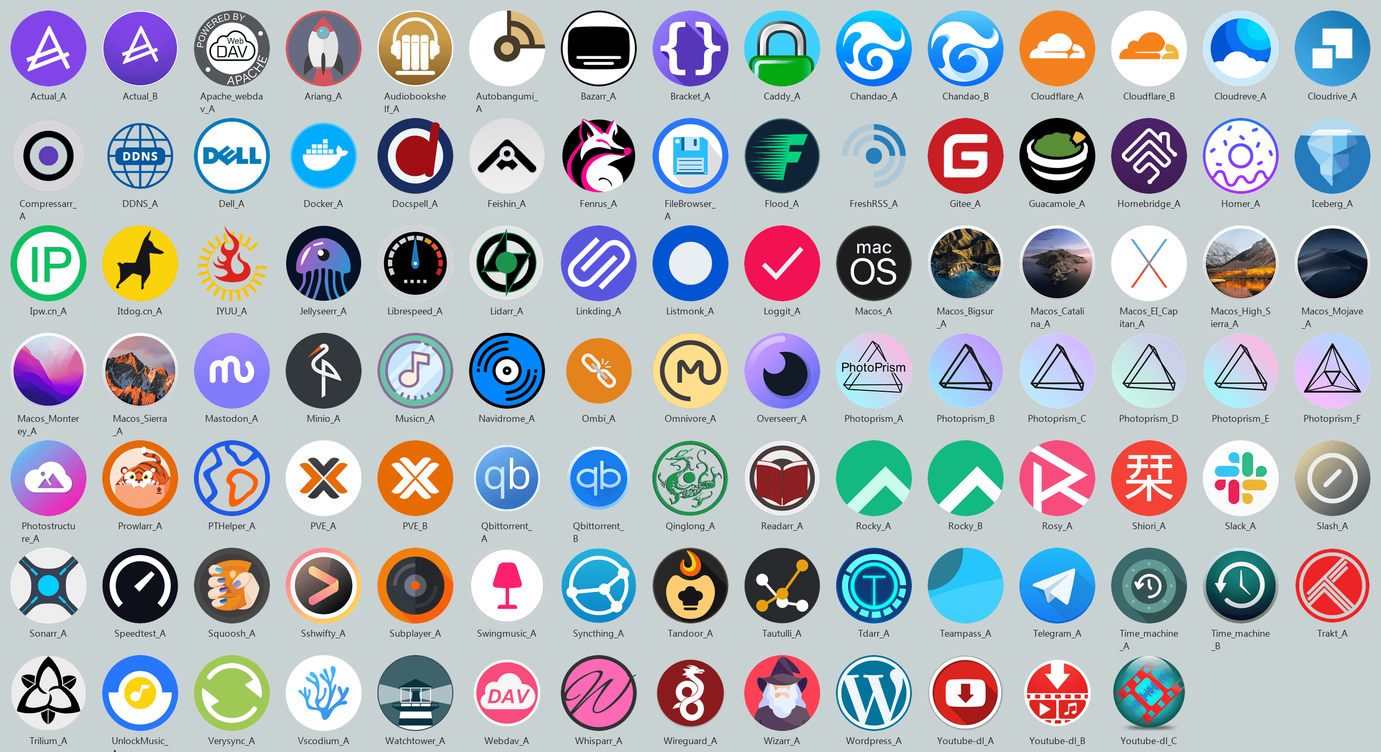
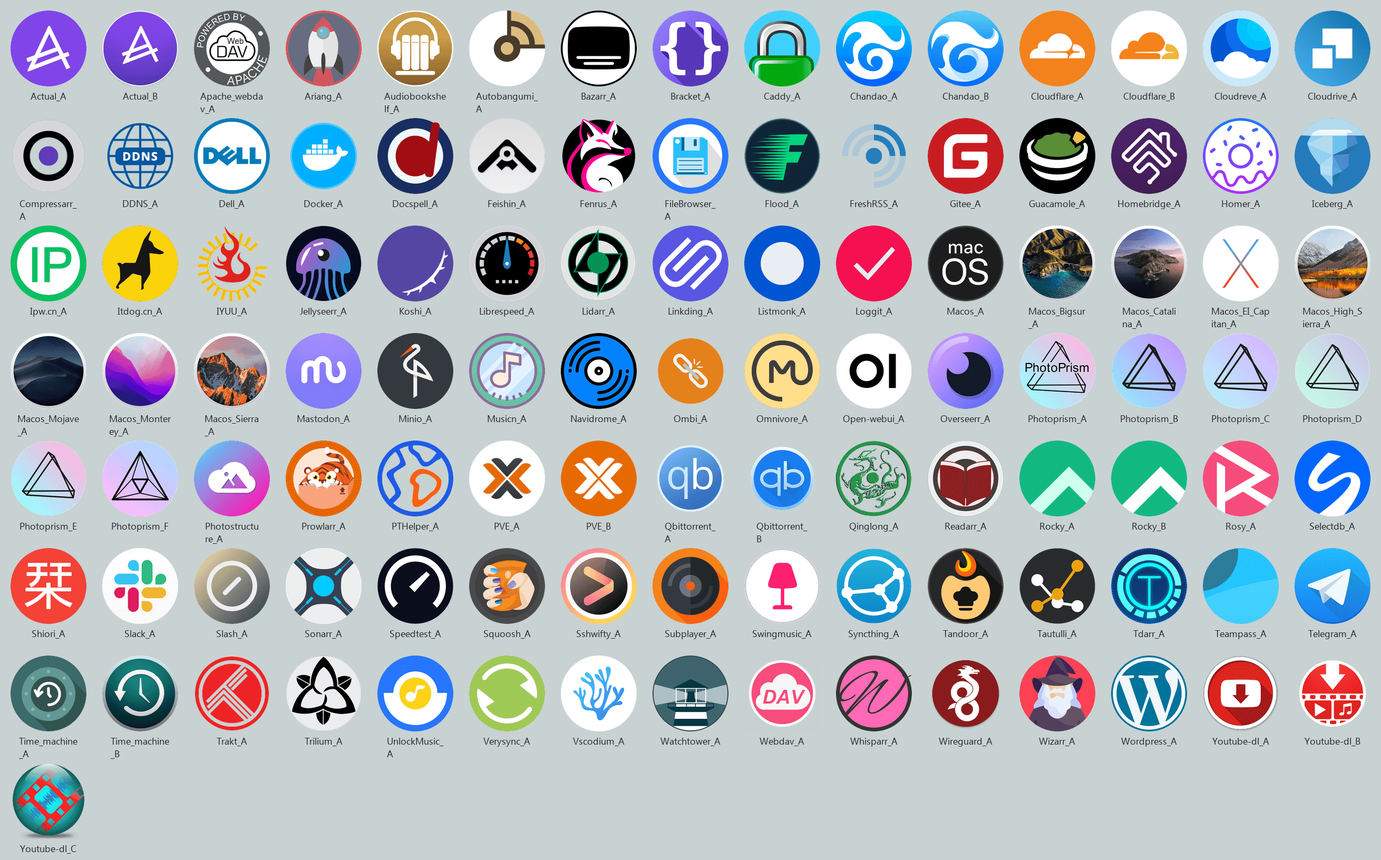
Add Feishu、Git、Koshi、Ollama、OpenMetadata、OpenWebUI、SelectDB、Python

diff --git a/README.md b/README.md
@@ -75,7 +75,7 @@
 
 - 例如，图标文件在 `/mnt/user/appdata/icons` 下，则图标地址填写 `/mnt/user/appdata/icons/xxxxx.png` 或者 `http://127.0.0.1/mnt/user/appdata/icons/xxxxx.png`，将 xxxxx 换成对应的图标名称即可，<a href="#圆角矩形图标"><strong>图标名称预览在此 »</strong></a>
 
-# 图标预览（当前共计 1242 个）
+# 图标预览（当前共计 1258 个）
 ## 圆角矩形图标
 <!-- START BORDER-RADIUS ICONS -->
 <img src="https://github.com/xushier/HD-Icons/blob/main/_icons-radius.png" alt="radius">
@@ -90,7 +90,7 @@
 <!-- START SVG ICONS -->
 
 <!-- END SVG ICONS -->
-<img src="svg/9Kuai_A.svg" alt="9Kuai_A" width="95"> <img src="svg/Actual_A.svg" alt="Actual_A" width="95"> <img src="svg/Acunetix_A.svg" alt="Acunetix_A" width="95"> <img src="svg/Adguard-home_A.svg" alt="Adguard-home_A" width="95"> <img src="svg/Adminer_A.svg" alt="Adminer_A" width="95"> <img src="svg/Airflow_A.svg" alt="Airflow_A" width="95"> <img src="svg/Airflow_B.svg" alt="Airflow_B" width="95"> <img src="svg/Airflow_C.svg" alt="Airflow_C" width="95"> <img src="svg/Alicloud_A.svg" alt="Alicloud_A" width="95"> <img src="svg/Alist_A.svg" alt="Alist_A" width="95"> <img src="svg/Amule_A.svg" alt="Amule_A" width="95"> <img src="svg/Anaconda_A.svg" alt="Anaconda_A" width="95"> <img src="svg/Apache_A.svg" alt="Apache_A" width="95"> <img src="svg/Apache_B.svg" alt="Apache_B" width="95"> <img src="svg/Apache_C.svg" alt="Apache_C" width="95"> <img src="svg/Appletv+_A.svg" alt="Appletv+_A" width="95"> <img src="svg/Aqua_A.svg" alt="Aqua_A" width="95"> <img src="svg/Arch_A.svg" alt="Arch_A" width="95"> <img src="svg/Audio-bookshelf_A.svg" alt="Audio-bookshelf_A" width="95"> <img src="svg/Authelia_A.svg" alt="Authelia_A" width="95"> <img src="svg/Authelia_B.svg" alt="Authelia_B" width="95"> <img src="svg/Authentik_A.svg" alt="Authentik_A" width="95"> <img src="svg/Autobrr_A.svg" alt="Autobrr_A" width="95"> <img src="svg/Baidu_A.svg" alt="Baidu_A" width="95"> <img src="svg/Bard_A.svg" alt="Bard_A" width="95"> <img src="svg/Baserow_A.svg" alt="Baserow_A" width="95"> <img src="svg/Bazarr_A.svg" alt="Bazarr_A" width="95"> <img src="svg/BigDataTools_A.svg" alt="BigDataTools_A" width="95"> <img src="svg/Bilibili_A.svg" alt="Bilibili_A" width="95"> <img src="svg/Bililive-recorder_A.svg" alt="Bililive-recorder_A" width="95"> <img src="svg/Bitwarden_A.svg" alt="Bitwarden_A" width="95"> <img src="svg/Bitwarden_B.svg" alt="Bitwarden_B" width="95"> <img src="svg/Blossom_A.svg" alt="Blossom_A" width="95"> <img src="svg/Bracket_A.svg" alt="Bracket_A" width="95"> <img src="svg/Caddy_A.svg" alt="Caddy_A" width="95"> <img src="svg/Calibre-web_A.svg" alt="Calibre-web_A" width="95"> <img src="svg/Casaos_A.svg" alt="Casaos_A" width="95"> <img src="svg/Centos_A.svg" alt="Centos_A" width="95"> <img src="svg/Centos_B.svg" alt="Centos_B" width="95"> <img src="svg/Chatgpt_A.svg" alt="Chatgpt_A" width="95"> <img src="svg/Chatgpt_B.svg" alt="Chatgpt_B" width="95"> <img src="svg/Chevereto_A.svg" alt="Chevereto_A" width="95"> <img src="svg/Chrome_A.svg" alt="Chrome_A" width="95"> <img src="svg/Claper_A.svg" alt="Claper_A" width="95"> <img src="svg/CLion_A.svg" alt="CLion_A" width="95"> <img src="svg/Cloud-beaver_A.svg" alt="Cloud-beaver_A" width="95"> <img src="svg/Cloud-beaver_B.svg" alt="Cloud-beaver_B" width="95"> <img src="svg/Cloudflare_A.svg" alt="Cloudflare_A" width="95"> <img src="svg/Cloudflare_B.svg" alt="Cloudflare_B" width="95"> <img src="svg/Cloudreve_A.svg" alt="Cloudreve_A" width="95"> <img src="svg/Code-server_A.svg" alt="Code-server_A" width="95"> <img src="svg/Code-with-me_A.svg" alt="Code-with-me_A" width="95"> <img src="svg/Codex-docs_A.svg" alt="Codex-docs_A" width="95"> <img src="svg/Cyberchef_A.svg" alt="Cyberchef_A" width="95"> <img src="svg/Cyberchef_B.svg" alt="Cyberchef_B" width="95"> <img src="svg/DataGrip_A.svg" alt="DataGrip_A" width="95"> <img src="svg/Datalore_A.svg" alt="Datalore_A" width="95"> <img src="svg/DataSpell_A.svg" alt="DataSpell_A" width="95"> <img src="svg/Debian_A.svg" alt="Debian_A" width="95"> <img src="svg/Debian_B.svg" alt="Debian_B" width="95"> <img src="svg/Deepin_A.svg" alt="Deepin_A" width="95"> <img src="svg/Dell_A.svg" alt="Dell_A" width="95"> <img src="svg/Deluge_A.svg" alt="Deluge_A" width="95"> <img src="svg/Directus_A.svg" alt="Directus_A" width="95"> <img src="svg/Directus_B.svg" alt="Directus_B" width="95"> <img src="svg/Discord_A.svg" alt="Discord_A" width="95"> <img src="svg/DM_20240201114214_043.svg" alt="DM_20240201114214_043" width="95"> <img src="svg/Docker-registry_A.svg" alt="Docker-registry_A" width="95"> <img src="svg/Docker_A.svg" alt="Docker_A" width="95"> <img src="svg/Docker_B.svg" alt="Docker_B" width="95"> <img src="svg/Docker_C.svg" alt="Docker_C" width="95"> <img src="svg/Docker_D.svg" alt="Docker_D" width="95"> <img src="svg/Docspell_A.svg" alt="Docspell_A" width="95"> <img src="svg/Dootask.svg" alt="Dootask" width="95"> <img src="svg/Doris_A.svg" alt="Doris_A" width="95"> <img src="svg/DotCover_A.svg" alt="DotCover_A" width="95"> <img src="svg/DotMemory_A.svg" alt="DotMemory_A" width="95"> <img src="svg/DotPeek_A.svg" alt="DotPeek_A" width="95"> <img src="svg/DotTrace_A.svg" alt="DotTrace_A" width="95"> <img src="svg/Dozzle_A.svg" alt="Dozzle_A" width="95"> <img src="svg/Drawio_A.svg" alt="Drawio_A" width="95"> <img src="svg/Duplicati_A.svg" alt="Duplicati_A" width="95"> <img src="svg/Element_A.svg" alt="Element_A" width="95"> <img src="svg/Etherpad_A.svg" alt="Etherpad_A" width="95"> <img src="svg/Featherwiki_A.svg" alt="Featherwiki_A" width="95"> <img src="svg/Fenrus_A.svg" alt="Fenrus_A" width="95"> <img src="svg/Fleet_A.svg" alt="Fleet_A" width="95"> <img src="svg/Flink_A.svg" alt="Flink_A" width="95"> <img src="svg/Flink_B.svg" alt="Flink_B" width="95"> <img src="svg/Focalboard_A.svg" alt="Focalboard_A" width="95"> <img src="svg/Gcore_A.svg" alt="Gcore_A" width="95"> <img src="svg/Gitee_A.svg" alt="Gitee_A" width="95"> <img src="svg/Gitlab_A.svg" alt="Gitlab_A" width="95"> <img src="svg/GoLand_A.svg" alt="GoLand_A" width="95"> <img src="svg/Hadoop_A.svg" alt="Hadoop_A" width="95"> <img src="svg/Hadoop_B.svg" alt="Hadoop_B" width="95"> <img src="svg/Hedgedoc_A.svg" alt="Hedgedoc_A" width="95"> <img src="svg/Heyform_A.svg" alt="Heyform_A" width="95"> <img src="svg/Hive_A.svg" alt="Hive_A" width="95"> <img src="svg/Hoarder_A.svg" alt="Hoarder_A" width="95"> <img src="svg/Homer_A.svg" alt="Homer_A" width="95"> <img src="svg/Intellij-idea_A.svg" alt="Intellij-idea_A" width="95"> <img src="svg/Ipw.cn_A.svg" alt="Ipw.cn_A" width="95"> <img src="svg/It-tools_A.svg" alt="It-tools_A" width="95"> <img src="svg/Jfa-go_A.svg" alt="Jfa-go_A" width="95"> <img src="svg/Jfa-go_B.svg" alt="Jfa-go_B" width="95"> <img src="svg/Jmalcloud_A.svg" alt="Jmalcloud_A" width="95"> <img src="svg/Kopia_A.svg" alt="Kopia_A" width="95"> <img src="svg/Kotlin_A.svg" alt="Kotlin_A" width="95"> <img src="svg/Ktor_A.svg" alt="Ktor_A" width="95"> <img src="svg/Leichi_A.svg" alt="Leichi_A" width="95"> <img src="svg/Librespeed_A.svg" alt="Librespeed_A" width="95"> <img src="svg/Limesurvey_A.svg" alt="Limesurvey_A" width="95"> <img src="svg/Linkding_A.svg" alt="Linkding_A" width="95"> <img src="svg/Listmonk_A.svg" alt="Listmonk_A" width="95"> <img src="svg/Loggit_A.svg" alt="Loggit_A" width="95"> <img src="svg/Lrcapi_A.svg" alt="Lrcapi_A" width="95"> <img src="svg/Lynx_A.svg" alt="Lynx_A" width="95"> <img src="svg/Mafl_A.svg" alt="Mafl_A" width="95"> <img src="svg/Manticore-search_A.svg" alt="Manticore-search_A" width="95"> <img src="svg/Mastodon_A.svg" alt="Mastodon_A" width="95"> <img src="svg/Mastodon_B.svg" alt="Mastodon_B" width="95"> <img src="svg/Mathesar_A.svg" alt="Mathesar_A" width="95"> <img src="svg/Mautic_A.svg" alt="Mautic_A" width="95"> <img src="svg/Mediawiki_A.svg" alt="Mediawiki_A" width="95"> <img src="svg/Meilisearch_A.svg" alt="Meilisearch_A" width="95"> <img src="svg/Meremedical_A.svg" alt="Meremedical_A" width="95"> <img src="svg/Metabase_A.svg" alt="Metabase_A" width="95"> <img src="svg/Microtalk-p2p_A.svg" alt="Microtalk-p2p_A" width="95"> <img src="svg/Microtalk-sfu_A.svg" alt="Microtalk-sfu_A" width="95"> <img src="svg/Mindsdb_A.svg" alt="Mindsdb_A" width="95"> <img src="svg/Miniserve_A.svg" alt="Miniserve_A" width="95"> <img src="svg/Moodle_A.svg" alt="Moodle_A" width="95"> <img src="svg/MPS_A.svg" alt="MPS_A" width="95"> <img src="svg/Nezha_A.svg" alt="Nezha_A" width="95"> <img src="svg/Nginx_A.svg" alt="Nginx_A" width="95"> <img src="svg/Nginx_B.svg" alt="Nginx_B" width="95"> <img src="svg/Nginx_C.svg" alt="Nginx_C" width="95"> <img src="svg/Notabase_A.svg" alt="Notabase_A" width="95"> <img src="svg/Nut_A.svg" alt="Nut_A" width="95"> <img src="svg/Nvidia_A.svg" alt="Nvidia_A" width="95"> <img src="svg/Oauth2proxy_A.svg" alt="Oauth2proxy_A" width="95"> <img src="svg/Outline_A.svg" alt="Outline_A" width="95"> <img src="svg/Padloc_A.svg" alt="Padloc_A" width="95"> <img src="svg/Photopea_A.svg" alt="Photopea_A" width="95"> <img src="svg/PhpStorm_A.svg" alt="PhpStorm_A" width="95"> <img src="svg/Plex_A.svg" alt="Plex_A" width="95"> <img src="svg/Plex_B.svg" alt="Plex_B" width="95"> <img src="svg/Plex_C.svg" alt="Plex_C" width="95"> <img src="svg/Ptools_A.svg" alt="Ptools_A" width="95"> <img src="svg/PyCharm_A.svg" alt="PyCharm_A" width="95"> <img src="svg/Qnap_A.svg" alt="Qnap_A" width="95"> <img src="svg/Qnap_B.svg" alt="Qnap_B" width="95"> <img src="svg/Qodana_A.svg" alt="Qodana_A" width="95"> <img src="svg/Quill_A.svg" alt="Quill_A" width="95"> <img src="svg/Radarr_A.svg" alt="Radarr_A" width="95"> <img src="svg/Readthedocs_A.svg" alt="Readthedocs_A" width="95"> <img src="svg/ReSharper_A.svg" alt="ReSharper_A" width="95"> <img src="svg/ReSharperC++_A.svg" alt="ReSharperC++_A" width="95"> <img src="svg/Rider_A.svg" alt="Rider_A" width="95"> <img src="svg/RiderFlow_A.svg" alt="RiderFlow_A" width="95"> <img src="svg/Rocky_A.svg" alt="Rocky_A" width="95"> <img src="svg/Rog_A.svg" alt="Rog_A" width="95"> <img src="svg/RubyMine_A.svg" alt="RubyMine_A" width="95"> <img src="svg/RustRover_A.svg" alt="RustRover_A" width="95"> <img src="svg/Rxresume_A.svg" alt="Rxresume_A" width="95"> <img src="svg/Scala_A.svg" alt="Scala_A" width="95"> <img src="svg/Servas_A.svg" alt="Servas_A" width="95"> <img src="svg/Snapdrop_A.svg" alt="Snapdrop_A" width="95"> <img src="svg/Splayer_A.svg" alt="Splayer_A" width="95"> <img src="svg/Squoosh_A.svg" alt="Squoosh_A" width="95"> <img src="svg/Sunpanel_A.svg" alt="Sunpanel_A" width="95"> <img src="svg/Superset_A.svg" alt="Superset_A" width="95"> <img src="svg/Superset_B.svg" alt="Superset_B" width="95"> <img src="svg/Superset_C.svg" alt="Superset_C" width="95"> <img src="svg/Superset_D.svg" alt="Superset_D" width="95"> <img src="svg/Superset_E.svg" alt="Superset_E" width="95"> <img src="svg/Superset_F.svg" alt="Superset_F" width="95"> <img src="svg/Superset_G.svg" alt="Superset_G" width="95"> <img src="svg/Swing-music_A.svg" alt="Swing-music_A" width="95"> <img src="svg/Tailchat_A.svg" alt="Tailchat_A" width="95"> <img src="svg/Teable_A.svg" alt="Teable_A" width="95"> <img src="svg/Team-mapper_A.svg" alt="Team-mapper_A" width="95"> <img src="svg/Teampass_A.svg" alt="Teampass_A" width="95"> <img src="svg/Telegram_A.svg" alt="Telegram_A" width="95"> <img src="svg/Telegram_B.svg" alt="Telegram_B" width="95"> <img src="svg/Telegram_C.svg" alt="Telegram_C" width="95"> <img src="svg/Thunderbird_A.svg" alt="Thunderbird_A" width="95"> <img src="svg/Tongyi_A.svg" alt="Tongyi_A" width="95"> <img src="svg/ToolBox_A.svg" alt="ToolBox_A" width="95"> <img src="svg/Traccar_A.svg" alt="Traccar_A" width="95"> <img src="svg/Ubuntu_A.svg" alt="Ubuntu_A" width="95"> <img src="svg/Ubuntu_B.svg" alt="Ubuntu_B" width="95"> <img src="svg/Ubuntu_C.svg" alt="Ubuntu_C" width="95"> <img src="svg/Unbalance_A.svg" alt="Unbalance_A" width="95"> <img src="svg/Unlock-music_A.svg" alt="Unlock-music_A" width="95"> <img src="svg/Unraid_A.svg" alt="Unraid_A" width="95"> <img src="svg/Uptime-kuma_A.svg" alt="Uptime-kuma_A" width="95"> <img src="svg/V2raya_A.svg" alt="V2raya_A" width="95"> <img src="svg/Vagrant_A.svg" alt="Vagrant_A" width="95"> <img src="svg/Vertex_A.svg" alt="Vertex_A" width="95"> <img src="svg/Vertex_B.svg" alt="Vertex_B" width="95"> <img src="svg/Vmware_A.svg" alt="Vmware_A" width="95"> <img src="svg/Vscode_A.svg" alt="Vscode_A" width="95"> <img src="svg/Vscode_B.svg" alt="Vscode_B" width="95"> <img src="svg/Vscodium_A.svg" alt="Vscodium_A" width="95"> <img src="svg/Vscodium_B.svg" alt="Vscodium_B" width="95"> <img src="svg/Wallabag_A.svg" alt="Wallabag_A" width="95"> <img src="svg/Wallabag_B.svg" alt="Wallabag_B" width="95"> <img src="svg/Wallabag_C.svg" alt="Wallabag_C" width="95"> <img src="svg/Watchtower_A.svg" alt="Watchtower_A" width="95"> <img src="svg/Wbo_A.svg" alt="Wbo_A" width="95"> <img src="svg/WebStorm_A.svg" alt="WebStorm_A" width="95"> <img src="svg/Wechat_A.svg" alt="Wechat_A" width="95"> <img src="svg/Wechat_B.svg" alt="Wechat_B" width="95"> <img src="svg/Wekan_A.svg" alt="Wekan_A" width="95"> <img src="svg/Wekan_B.svg" alt="Wekan_B" width="95"> <img src="svg/Whisparr_A.svg" alt="Whisparr_A" width="95"> <img src="svg/Wikijs_A.svg" alt="Wikijs_A" width="95"> <img src="svg/Wireguard_A.svg" alt="Wireguard_A" width="95"> <img src="svg/Wise-mapping_A.svg" alt="Wise-mapping_A" width="95"> <img src="svg/Wordpress_A.svg" alt="Wordpress_A" width="95"> <img src="svg/Writerside_A.svg" alt="Writerside_A" width="95"> <img src="svg/YouTrack_A.svg" alt="YouTrack_A" width="95"> <img src="svg/Youtube_A.svg" alt="Youtube_A" width="95"> <img src="svg/Youtube_B.svg" alt="Youtube_B" width="95"> <img src="svg/Youtube_C.svg" alt="Youtube_C" width="95"> <img src="svg/Youtube_D.svg" alt="Youtube_D" width="95"> <img src="svg/Youtube_E.svg" alt="Youtube_E" width="95"> <img src="svg/Zfile_A.svg" alt="Zfile_A" width="95"> <img src="svg/Zigbeemqtt_A.svg" alt="Zigbeemqtt_A" width="95"> <img src="svg/Zimaos_A.svg" alt="Zimaos_A" width="95"> <img src="svg/节点小宝_A.svg" alt="节点小宝_A" width="95">
+<img src="svg/9Kuai_A.svg" alt="9Kuai_A" width="95"> <img src="svg/Actual_A.svg" alt="Actual_A" width="95"> <img src="svg/Acunetix_A.svg" alt="Acunetix_A" width="95"> <img src="svg/Adguard-home_A.svg" alt="Adguard-home_A" width="95"> <img src="svg/Adminer_A.svg" alt="Adminer_A" width="95"> <img src="svg/Airflow_A.svg" alt="Airflow_A" width="95"> <img src="svg/Airflow_B.svg" alt="Airflow_B" width="95"> <img src="svg/Airflow_C.svg" alt="Airflow_C" width="95"> <img src="svg/Alicloud_A.svg" alt="Alicloud_A" width="95"> <img src="svg/Alist_A.svg" alt="Alist_A" width="95"> <img src="svg/Amule_A.svg" alt="Amule_A" width="95"> <img src="svg/Anaconda_A.svg" alt="Anaconda_A" width="95"> <img src="svg/Apache_A.svg" alt="Apache_A" width="95"> <img src="svg/Apache_B.svg" alt="Apache_B" width="95"> <img src="svg/Apache_C.svg" alt="Apache_C" width="95"> <img src="svg/Appletv+_A.svg" alt="Appletv+_A" width="95"> <img src="svg/Aqua_A.svg" alt="Aqua_A" width="95"> <img src="svg/Arch_A.svg" alt="Arch_A" width="95"> <img src="svg/Audio-bookshelf_A.svg" alt="Audio-bookshelf_A" width="95"> <img src="svg/Authelia_A.svg" alt="Authelia_A" width="95"> <img src="svg/Authelia_B.svg" alt="Authelia_B" width="95"> <img src="svg/Authentik_A.svg" alt="Authentik_A" width="95"> <img src="svg/Autobrr_A.svg" alt="Autobrr_A" width="95"> <img src="svg/Baidu_A.svg" alt="Baidu_A" width="95"> <img src="svg/Bard_A.svg" alt="Bard_A" width="95"> <img src="svg/Baserow_A.svg" alt="Baserow_A" width="95"> <img src="svg/Bazarr_A.svg" alt="Bazarr_A" width="95"> <img src="svg/BigDataTools_A.svg" alt="BigDataTools_A" width="95"> <img src="svg/Bilibili_A.svg" alt="Bilibili_A" width="95"> <img src="svg/Bililive-recorder_A.svg" alt="Bililive-recorder_A" width="95"> <img src="svg/Bitwarden_A.svg" alt="Bitwarden_A" width="95"> <img src="svg/Bitwarden_B.svg" alt="Bitwarden_B" width="95"> <img src="svg/Blossom_A.svg" alt="Blossom_A" width="95"> <img src="svg/Bracket_A.svg" alt="Bracket_A" width="95"> <img src="svg/Caddy_A.svg" alt="Caddy_A" width="95"> <img src="svg/Calibre-web_A.svg" alt="Calibre-web_A" width="95"> <img src="svg/Casaos_A.svg" alt="Casaos_A" width="95"> <img src="svg/Centos_A.svg" alt="Centos_A" width="95"> <img src="svg/Centos_B.svg" alt="Centos_B" width="95"> <img src="svg/Chatgpt_A.svg" alt="Chatgpt_A" width="95"> <img src="svg/Chatgpt_B.svg" alt="Chatgpt_B" width="95"> <img src="svg/Chevereto_A.svg" alt="Chevereto_A" width="95"> <img src="svg/Chrome_A.svg" alt="Chrome_A" width="95"> <img src="svg/Claper_A.svg" alt="Claper_A" width="95"> <img src="svg/CLion_A.svg" alt="CLion_A" width="95"> <img src="svg/Cloud-beaver_A.svg" alt="Cloud-beaver_A" width="95"> <img src="svg/Cloud-beaver_B.svg" alt="Cloud-beaver_B" width="95"> <img src="svg/Cloudflare_A.svg" alt="Cloudflare_A" width="95"> <img src="svg/Cloudflare_B.svg" alt="Cloudflare_B" width="95"> <img src="svg/Cloudreve_A.svg" alt="Cloudreve_A" width="95"> <img src="svg/Code-server_A.svg" alt="Code-server_A" width="95"> <img src="svg/Code-with-me_A.svg" alt="Code-with-me_A" width="95"> <img src="svg/Codex-docs_A.svg" alt="Codex-docs_A" width="95"> <img src="svg/Cyberchef_A.svg" alt="Cyberchef_A" width="95"> <img src="svg/Cyberchef_B.svg" alt="Cyberchef_B" width="95"> <img src="svg/DataGrip_A.svg" alt="DataGrip_A" width="95"> <img src="svg/Datalore_A.svg" alt="Datalore_A" width="95"> <img src="svg/DataSpell_A.svg" alt="DataSpell_A" width="95"> <img src="svg/Debian_A.svg" alt="Debian_A" width="95"> <img src="svg/Debian_B.svg" alt="Debian_B" width="95"> <img src="svg/Deepin_A.svg" alt="Deepin_A" width="95"> <img src="svg/Dell_A.svg" alt="Dell_A" width="95"> <img src="svg/Deluge_A.svg" alt="Deluge_A" width="95"> <img src="svg/Directus_A.svg" alt="Directus_A" width="95"> <img src="svg/Directus_B.svg" alt="Directus_B" width="95"> <img src="svg/Discord_A.svg" alt="Discord_A" width="95"> <img src="svg/DM_20240201114214_043.svg" alt="DM_20240201114214_043" width="95"> <img src="svg/Docker-registry_A.svg" alt="Docker-registry_A" width="95"> <img src="svg/Docker_A.svg" alt="Docker_A" width="95"> <img src="svg/Docker_B.svg" alt="Docker_B" width="95"> <img src="svg/Docker_C.svg" alt="Docker_C" width="95"> <img src="svg/Docker_D.svg" alt="Docker_D" width="95"> <img src="svg/Docspell_A.svg" alt="Docspell_A" width="95"> <img src="svg/Dootask.svg" alt="Dootask" width="95"> <img src="svg/Doris_A.svg" alt="Doris_A" width="95"> <img src="svg/DotCover_A.svg" alt="DotCover_A" width="95"> <img src="svg/DotMemory_A.svg" alt="DotMemory_A" width="95"> <img src="svg/DotPeek_A.svg" alt="DotPeek_A" width="95"> <img src="svg/DotTrace_A.svg" alt="DotTrace_A" width="95"> <img src="svg/Dozzle_A.svg" alt="Dozzle_A" width="95"> <img src="svg/Drawio_A.svg" alt="Drawio_A" width="95"> <img src="svg/Duplicati_A.svg" alt="Duplicati_A" width="95"> <img src="svg/Element_A.svg" alt="Element_A" width="95"> <img src="svg/Etherpad_A.svg" alt="Etherpad_A" width="95"> <img src="svg/Featherwiki_A.svg" alt="Featherwiki_A" width="95"> <img src="svg/Fenrus_A.svg" alt="Fenrus_A" width="95"> <img src="svg/Fleet_A.svg" alt="Fleet_A" width="95"> <img src="svg/Flink_A.svg" alt="Flink_A" width="95"> <img src="svg/Flink_B.svg" alt="Flink_B" width="95"> <img src="svg/Focalboard_A.svg" alt="Focalboard_A" width="95"> <img src="svg/Gcore_A.svg" alt="Gcore_A" width="95"> <img src="svg/Git_A.svg" alt="Git_A" width="95"> <img src="svg/Gitee_A.svg" alt="Gitee_A" width="95"> <img src="svg/Gitlab_A.svg" alt="Gitlab_A" width="95"> <img src="svg/GoLand_A.svg" alt="GoLand_A" width="95"> <img src="svg/Hadoop_A.svg" alt="Hadoop_A" width="95"> <img src="svg/Hadoop_B.svg" alt="Hadoop_B" width="95"> <img src="svg/Hedgedoc_A.svg" alt="Hedgedoc_A" width="95"> <img src="svg/Heyform_A.svg" alt="Heyform_A" width="95"> <img src="svg/Hive_A.svg" alt="Hive_A" width="95"> <img src="svg/Hoarder_A.svg" alt="Hoarder_A" width="95"> <img src="svg/Homer_A.svg" alt="Homer_A" width="95"> <img src="svg/Intellij-idea_A.svg" alt="Intellij-idea_A" width="95"> <img src="svg/Ipw.cn_A.svg" alt="Ipw.cn_A" width="95"> <img src="svg/It-tools_A.svg" alt="It-tools_A" width="95"> <img src="svg/Jfa-go_A.svg" alt="Jfa-go_A" width="95"> <img src="svg/Jfa-go_B.svg" alt="Jfa-go_B" width="95"> <img src="svg/Jmalcloud_A.svg" alt="Jmalcloud_A" width="95"> <img src="svg/Kopia_A.svg" alt="Kopia_A" width="95"> <img src="svg/Kotlin_A.svg" alt="Kotlin_A" width="95"> <img src="svg/Ktor_A.svg" alt="Ktor_A" width="95"> <img src="svg/Leichi_A.svg" alt="Leichi_A" width="95"> <img src="svg/Librespeed_A.svg" alt="Librespeed_A" width="95"> <img src="svg/Limesurvey_A.svg" alt="Limesurvey_A" width="95"> <img src="svg/Linkding_A.svg" alt="Linkding_A" width="95"> <img src="svg/Listmonk_A.svg" alt="Listmonk_A" width="95"> <img src="svg/Loggit_A.svg" alt="Loggit_A" width="95"> <img src="svg/Lrcapi_A.svg" alt="Lrcapi_A" width="95"> <img src="svg/Lynx_A.svg" alt="Lynx_A" width="95"> <img src="svg/Mafl_A.svg" alt="Mafl_A" width="95"> <img src="svg/Manticore-search_A.svg" alt="Manticore-search_A" width="95"> <img src="svg/Mastodon_A.svg" alt="Mastodon_A" width="95"> <img src="svg/Mastodon_B.svg" alt="Mastodon_B" width="95"> <img src="svg/Mathesar_A.svg" alt="Mathesar_A" width="95"> <img src="svg/Mautic_A.svg" alt="Mautic_A" width="95"> <img src="svg/Mediawiki_A.svg" alt="Mediawiki_A" width="95"> <img src="svg/Meilisearch_A.svg" alt="Meilisearch_A" width="95"> <img src="svg/Meremedical_A.svg" alt="Meremedical_A" width="95"> <img src="svg/Metabase_A.svg" alt="Metabase_A" width="95"> <img src="svg/Microtalk-p2p_A.svg" alt="Microtalk-p2p_A" width="95"> <img src="svg/Microtalk-sfu_A.svg" alt="Microtalk-sfu_A" width="95"> <img src="svg/Mindsdb_A.svg" alt="Mindsdb_A" width="95"> <img src="svg/Miniserve_A.svg" alt="Miniserve_A" width="95"> <img src="svg/Moodle_A.svg" alt="Moodle_A" width="95"> <img src="svg/MPS_A.svg" alt="MPS_A" width="95"> <img src="svg/Nezha_A.svg" alt="Nezha_A" width="95"> <img src="svg/Nginx_A.svg" alt="Nginx_A" width="95"> <img src="svg/Nginx_B.svg" alt="Nginx_B" width="95"> <img src="svg/Nginx_C.svg" alt="Nginx_C" width="95"> <img src="svg/Notabase_A.svg" alt="Notabase_A" width="95"> <img src="svg/Nut_A.svg" alt="Nut_A" width="95"> <img src="svg/Nvidia_A.svg" alt="Nvidia_A" width="95"> <img src="svg/Oauth2proxy_A.svg" alt="Oauth2proxy_A" width="95"> <img src="svg/Ollama_A.svg" alt="Ollama_A" width="95"> <img src="svg/Open-metadata_A.svg" alt="Open-metadata_A" width="95"> <img src="svg/Open-webui_A.svg" alt="Open-webui_A" width="95"> <img src="svg/Outline_A.svg" alt="Outline_A" width="95"> <img src="svg/Padloc_A.svg" alt="Padloc_A" width="95"> <img src="svg/Photopea_A.svg" alt="Photopea_A" width="95"> <img src="svg/PhpStorm_A.svg" alt="PhpStorm_A" width="95"> <img src="svg/Plex_A.svg" alt="Plex_A" width="95"> <img src="svg/Plex_B.svg" alt="Plex_B" width="95"> <img src="svg/Plex_C.svg" alt="Plex_C" width="95"> <img src="svg/Ptools_A.svg" alt="Ptools_A" width="95"> <img src="svg/PyCharm_A.svg" alt="PyCharm_A" width="95"> <img src="svg/Python_A.svg" alt="Python_A" width="95"> <img src="svg/Qnap_A.svg" alt="Qnap_A" width="95"> <img src="svg/Qnap_B.svg" alt="Qnap_B" width="95"> <img src="svg/Qodana_A.svg" alt="Qodana_A" width="95"> <img src="svg/Quill_A.svg" alt="Quill_A" width="95"> <img src="svg/Radarr_A.svg" alt="Radarr_A" width="95"> <img src="svg/Readthedocs_A.svg" alt="Readthedocs_A" width="95"> <img src="svg/ReSharper_A.svg" alt="ReSharper_A" width="95"> <img src="svg/ReSharperC++_A.svg" alt="ReSharperC++_A" width="95"> <img src="svg/Rider_A.svg" alt="Rider_A" width="95"> <img src="svg/RiderFlow_A.svg" alt="RiderFlow_A" width="95"> <img src="svg/Rocky_A.svg" alt="Rocky_A" width="95"> <img src="svg/Rog_A.svg" alt="Rog_A" width="95"> <img src="svg/RubyMine_A.svg" alt="RubyMine_A" width="95"> <img src="svg/RustRover_A.svg" alt="RustRover_A" width="95"> <img src="svg/Rxresume_A.svg" alt="Rxresume_A" width="95"> <img src="svg/Scala_A.svg" alt="Scala_A" width="95"> <img src="svg/Servas_A.svg" alt="Servas_A" width="95"> <img src="svg/Snapdrop_A.svg" alt="Snapdrop_A" width="95"> <img src="svg/Splayer_A.svg" alt="Splayer_A" width="95"> <img src="svg/Squoosh_A.svg" alt="Squoosh_A" width="95"> <img src="svg/Sunpanel_A.svg" alt="Sunpanel_A" width="95"> <img src="svg/Superset_A.svg" alt="Superset_A" width="95"> <img src="svg/Superset_B.svg" alt="Superset_B" width="95"> <img src="svg/Superset_C.svg" alt="Superset_C" width="95"> <img src="svg/Superset_D.svg" alt="Superset_D" width="95"> <img src="svg/Superset_E.svg" alt="Superset_E" width="95"> <img src="svg/Superset_F.svg" alt="Superset_F" width="95"> <img src="svg/Superset_G.svg" alt="Superset_G" width="95"> <img src="svg/Swing-music_A.svg" alt="Swing-music_A" width="95"> <img src="svg/Tailchat_A.svg" alt="Tailchat_A" width="95"> <img src="svg/Teable_A.svg" alt="Teable_A" width="95"> <img src="svg/Team-mapper_A.svg" alt="Team-mapper_A" width="95"> <img src="svg/Teampass_A.svg" alt="Teampass_A" width="95"> <img src="svg/Telegram_A.svg" alt="Telegram_A" width="95"> <img src="svg/Telegram_B.svg" alt="Telegram_B" width="95"> <img src="svg/Telegram_C.svg" alt="Telegram_C" width="95"> <img src="svg/Thunderbird_A.svg" alt="Thunderbird_A" width="95"> <img src="svg/Tongyi_A.svg" alt="Tongyi_A" width="95"> <img src="svg/ToolBox_A.svg" alt="ToolBox_A" width="95"> <img src="svg/Traccar_A.svg" alt="Traccar_A" width="95"> <img src="svg/Ubuntu_A.svg" alt="Ubuntu_A" width="95"> <img src="svg/Ubuntu_B.svg" alt="Ubuntu_B" width="95"> <img src="svg/Ubuntu_C.svg" alt="Ubuntu_C" width="95"> <img src="svg/Unbalance_A.svg" alt="Unbalance_A" width="95"> <img src="svg/Unlock-music_A.svg" alt="Unlock-music_A" width="95"> <img src="svg/Unraid_A.svg" alt="Unraid_A" width="95"> <img src="svg/Uptime-kuma_A.svg" alt="Uptime-kuma_A" width="95"> <img src="svg/V2raya_A.svg" alt="V2raya_A" width="95"> <img src="svg/Vagrant_A.svg" alt="Vagrant_A" width="95"> <img src="svg/Vertex_A.svg" alt="Vertex_A" width="95"> <img src="svg/Vertex_B.svg" alt="Vertex_B" width="95"> <img src="svg/Vmware_A.svg" alt="Vmware_A" width="95"> <img src="svg/Vscode_A.svg" alt="Vscode_A" width="95"> <img src="svg/Vscode_B.svg" alt="Vscode_B" width="95"> <img src="svg/Vscodium_A.svg" alt="Vscodium_A" width="95"> <img src="svg/Vscodium_B.svg" alt="Vscodium_B" width="95"> <img src="svg/Wallabag_A.svg" alt="Wallabag_A" width="95"> <img src="svg/Wallabag_B.svg" alt="Wallabag_B" width="95"> <img src="svg/Wallabag_C.svg" alt="Wallabag_C" width="95"> <img src="svg/Watchtower_A.svg" alt="Watchtower_A" width="95"> <img src="svg/Wbo_A.svg" alt="Wbo_A" width="95"> <img src="svg/WebStorm_A.svg" alt="WebStorm_A" width="95"> <img src="svg/Wechat_A.svg" alt="Wechat_A" width="95"> <img src="svg/Wechat_B.svg" alt="Wechat_B" width="95"> <img src="svg/Wekan_A.svg" alt="Wekan_A" width="95"> <img src="svg/Wekan_B.svg" alt="Wekan_B" width="95"> <img src="svg/Whisparr_A.svg" alt="Whisparr_A" width="95"> <img src="svg/Wikijs_A.svg" alt="Wikijs_A" width="95"> <img src="svg/Wireguard_A.svg" alt="Wireguard_A" width="95"> <img src="svg/Wise-mapping_A.svg" alt="Wise-mapping_A" width="95"> <img src="svg/Wordpress_A.svg" alt="Wordpress_A" width="95"> <img src="svg/Writerside_A.svg" alt="Writerside_A" width="95"> <img src="svg/YouTrack_A.svg" alt="YouTrack_A" width="95"> <img src="svg/Youtube_A.svg" alt="Youtube_A" width="95"> <img src="svg/Youtube_B.svg" alt="Youtube_B" width="95"> <img src="svg/Youtube_C.svg" alt="Youtube_C" width="95"> <img src="svg/Youtube_D.svg" alt="Youtube_D" width="95"> <img src="svg/Youtube_E.svg" alt="Youtube_E" width="95"> <img src="svg/Zfile_A.svg" alt="Zfile_A" width="95"> <img src="svg/Zigbeemqtt_A.svg" alt="Zigbeemqtt_A" width="95"> <img src="svg/Zimaos_A.svg" alt="Zimaos_A" width="95"> <img src="svg/节点小宝_A.svg" alt="节点小宝_A" width="95">
 
 <!-- LEGAL -->
 
